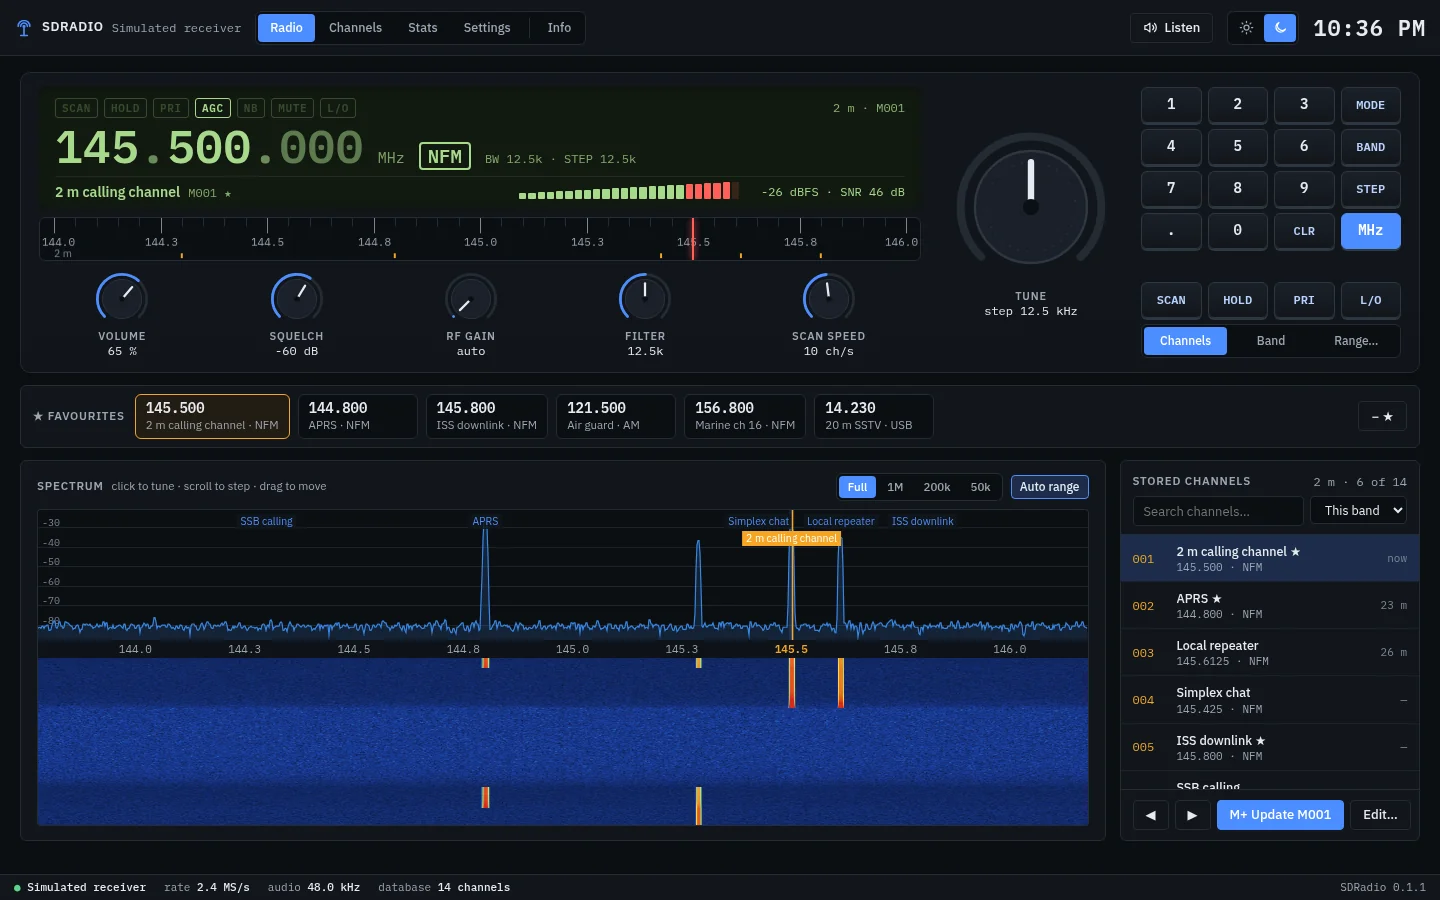
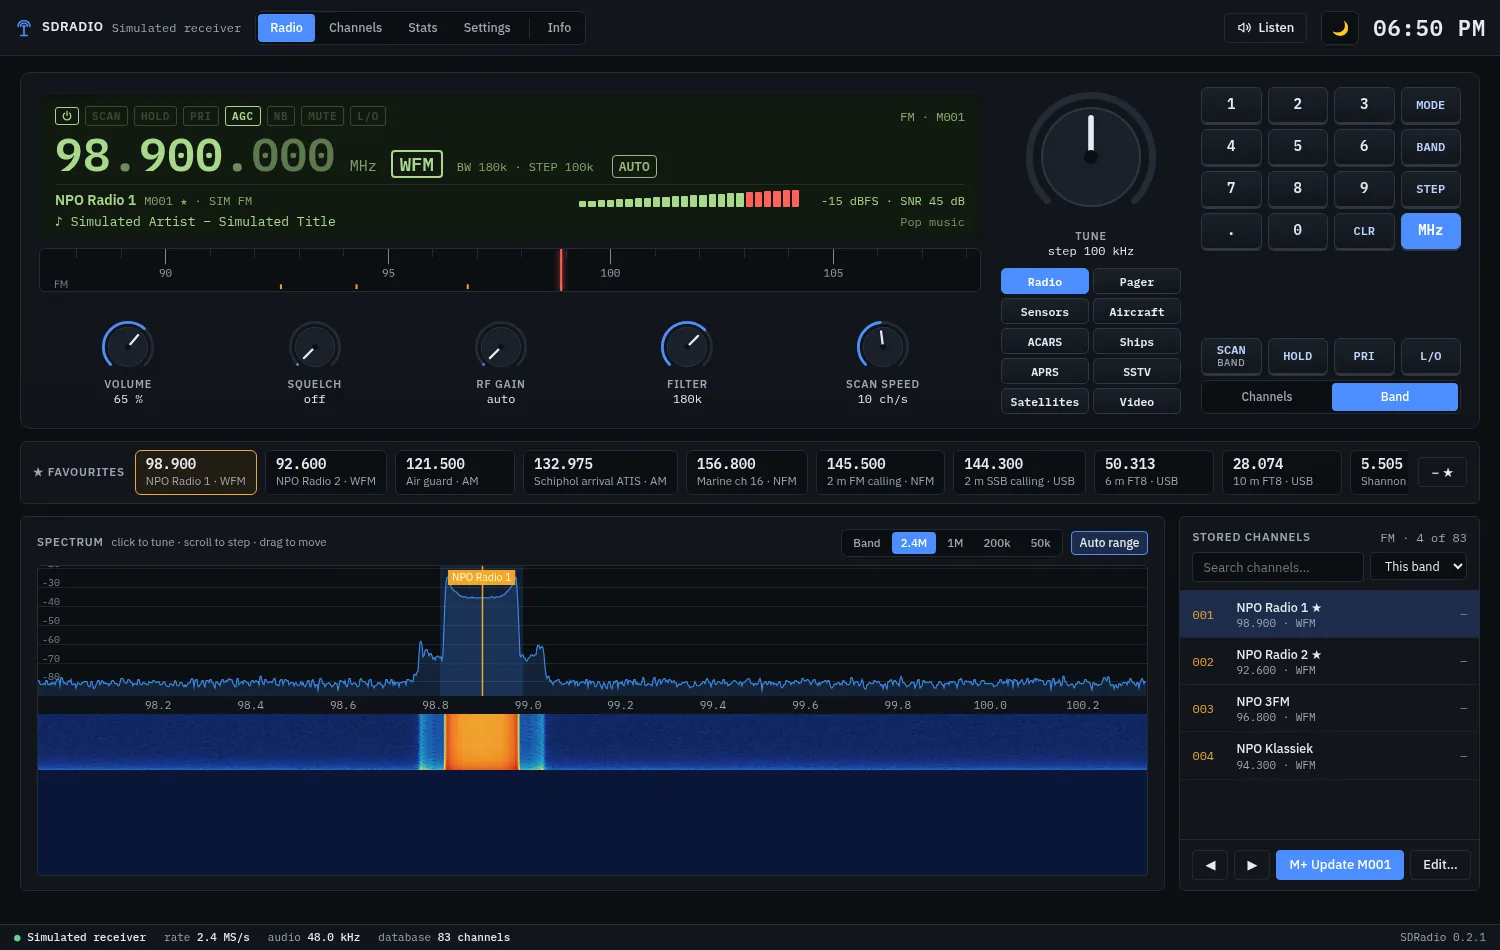
SDRadio: README with the modes and new screenshots (radio with the mode buttons, every mode, the modes' settings)

diff --git a/app-sdradio/src/web/settings.js b/app-sdradio/src/web/settings.js
@@ -98,7 +98,7 @@ function renderSettings() {
 
         <div class="panel"><div class="panel-body">
             <div class="chart-title"><span>Modes</span></div>
-            <p class="panel-sub" style="margin-bottom:8px">Pick a mode in the top bar: the radio tunes to the mode's frequency and decodes what it hears there. You can still tune elsewhere.</p>
+            <p class="panel-sub" style="margin-bottom:8px">Pick a mode with the buttons under the tune dial: the radio tunes to the mode's frequency and decodes what it hears there. You can still tune elsewhere.</p>
             ${modeSettingsHtml(ha)}
             ${setRow('Keep decoded for', 'pager messages and sensor readings; older ones are removed nightly', selectHtml('decoded_keep_days', spec.decoded_keep_days.options, days))}
         </div></div>

diff --git a/app-sdradio/README.md b/app-sdradio/README.md
@@ -16,10 +16,14 @@ A software defined radio receiver in Home Assistant, opened from the sidebar. Pl
 RTL-SDR or HackRF (or point it at an `rtl_tcp` server), and you get a receiver front panel: a
 display with the frequency, mode and signal meter, knobs, a tune dial and a keypad, a live
 spectrum and waterfall to click on, and your stored channels beside it. Listen in the browser,
-scan your channels, a band or a range, and keep every channel and every transmission heard in a
-database, with CSV import and export, statistics and nightly backups.
+scan your channels or a band, and keep every channel and every transmission heard in a
+database, with CSV import and export, statistics and nightly backups. The mode buttons under the
+tune dial turn it into a decoder: pagers, weather sensors, aircraft and ships on a map, ACARS,
+APRS, SSTV pictures, satellite passes, and analog FPV video with a HackRF.
 
-![The radio: display, band scale, knobs, tune dial and keypad, favourites, the spectrum and waterfall, and the stored channels (light theme)](https://raw.githubusercontent.com/cyberjunky/home-assistant-apps/main/app-sdradio/screenshots/radio-light.webp)
+![The radio: display, band scale, knobs, tune dial with the mode buttons and keypad, favourites, the spectrum and waterfall, and the stored channels (light theme)](https://raw.githubusercontent.com/cyberjunky/home-assistant-apps/main/app-sdradio/screenshots/radio-light.webp)
+
+![The Aircraft mode: ADS-B on 1090 MHz, the aircraft on a map with their trails and in a list](https://raw.githubusercontent.com/cyberjunky/home-assistant-apps/main/app-sdradio/screenshots/mode-aircraft-light.webp)
 
 <details>
 <summary>More screenshots</summary>
@@ -38,6 +42,30 @@ database, with CSV import and export, statistics and nightly backups.
 
 **The radio, dark theme**
 ![The radio in the dark theme](https://raw.githubusercontent.com/cyberjunky/home-assistant-apps/main/app-sdradio/screenshots/radio-dark.webp)
+
+**Pager** — P2000 (FLEX) and POCSAG messages, decoded by multimon-ng
+![Pager mode](https://raw.githubusercontent.com/cyberjunky/home-assistant-apps/main/app-sdradio/screenshots/mode-pager-light.webp)
+
+**Ships** — AIS on both channels: the ships on a map, pointing where they sail, with name and destination
+![Ships mode](https://raw.githubusercontent.com/cyberjunky/home-assistant-apps/main/app-sdradio/screenshots/mode-ships-light.webp)
+
+**APRS** — radio amateur stations, cars and weather stations on 144.800 MHz, with their symbols
+![APRS mode](https://raw.githubusercontent.com/cyberjunky/home-assistant-apps/main/app-sdradio/screenshots/mode-aprs-light.webp)
+
+**ACARS** — the text messages of aircraft, three channels at once
+![ACARS mode](https://raw.githubusercontent.com/cyberjunky/home-assistant-apps/main/app-sdradio/screenshots/mode-acars-light.webp)
+
+**SSTV** — pictures sent as sound, from the ISS and radio amateurs
+![SSTV mode](https://raw.githubusercontent.com/cyberjunky/home-assistant-apps/main/app-sdradio/screenshots/mode-sstv-light.webp)
+
+**Satellites** — the passes over your home, followed with the Doppler shift taken out
+![Satellites mode](https://raw.githubusercontent.com/cyberjunky/home-assistant-apps/main/app-sdradio/screenshots/mode-satellites-light.webp)
+
+**Video** (HackRF) — analog FPV video, in black and white
+![Video mode](https://raw.githubusercontent.com/cyberjunky/home-assistant-apps/main/app-sdradio/screenshots/mode-video-light.webp)
+
+**Settings → Modes** — pager networks, the frequencies and options of each mode
+![Settings for the modes](https://raw.githubusercontent.com/cyberjunky/home-assistant-apps/main/app-sdradio/screenshots/settings-modes-light.webp)
 
 </details>
 
